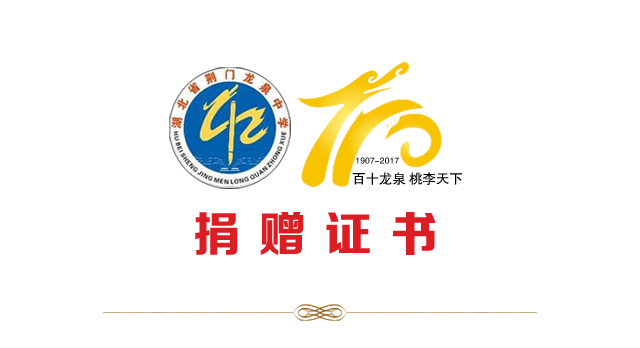
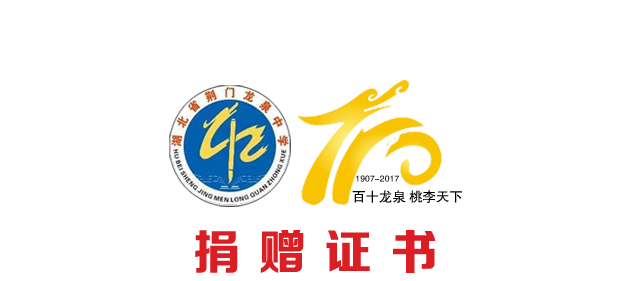
Add tradeNo in certificate.

Changed region(s): [[0.25, 0.1708, 0.7188, 0.7402], [0.1562, 0.7972, 0.8438, 0.968]]

diff --git a/src/main/webapp/mail/certificate.html b/src/main/webapp/mail/certificate.html
@@ -17,17 +17,22 @@
             margin: 0 auto;
             background-image: url('#{httpProtocol}://#{domain}/static/images/certificate-bg.jpg');">
     <img id="top-img" src="#{httpProtocol}://#{domain}/static/images/certificate-top.png" style="width: 100%;">
+    <p style="text-align: center;">证书编号：#{tradeNo}</p>
+    <img src="#{httpProtocol}://#{domain}/static/images/certificate-mid.png" style="width: 100%;">
     <div id="certificate-content" style="margin: 0 60px;">
         <p>尊敬的#{name}#{sex}</p>
         <p>&nbsp;&nbsp;&nbsp;&nbsp;&nbsp;&nbsp;&nbsp;&nbsp;承蒙您捐赠#{money}元人民币，用于资助龙泉中学教育事业的发展。隆情厚谊，至为感谢。</p>
         <p>&nbsp;&nbsp;&nbsp;&nbsp;&nbsp;&nbsp;&nbsp;&nbsp;仅奉此证，以示纪念。</p>
-        <p id="certificate-time" style="
+        <div id="certificate-time" style="
             position: absolute;
             bottom: 100px;
-            right: 65px;">二零一七年十月十日</p>
+            right: 65px;">
+            <span style="display: block;text-align: center;">荆门市龙泉中学</span>
+            <span>二零一七年十月十日</span>
+        </div>
         <img id="certificate-stamp" src="#{httpProtocol}://#{domain}/static/images/certificate-stamp.png" style="
-            width: 150px;
-            height: 150px;
+            width: 120px;
+            height: 120px;
             position: absolute;
             bottom: 70px;
             right: 60px;

diff --git a/src/main/webapp/donate/certificate.html b/src/main/webapp/donate/certificate.html
@@ -36,8 +36,8 @@
         }
 
         #certificate-stamp {
-            width: 150px;
-            height: 150px;
+            width: 120px;
+            height: 120px;
             position: absolute;
             bottom: 70px;
             right: 60px;
@@ -63,11 +63,16 @@
 <body>
 <div id="certificate">
     <img id="top-img" src="/static/images/certificate-top.png">
+    <p style="text-align: center;">证书编号：@{tradeNo}</p>
+    <img src="/static/images/certificate-mid.png" style="width: 100%;">
     <div id="certificate-content">
         <p>尊敬的@{name}@{sex}</p>
         <p>&nbsp;&nbsp;&nbsp;&nbsp;&nbsp;&nbsp;&nbsp;&nbsp;承蒙您捐赠@{money}元人民币，用于资助龙泉中学教育事业的发展。隆情厚谊，至为感谢。</p>
         <p>&nbsp;&nbsp;&nbsp;&nbsp;&nbsp;&nbsp;&nbsp;&nbsp;仅奉此证，以示纪念。</p>
-        <p id="certificate-time">二零一七年十月十日</p>
+        <div id="certificate-time">
+            <span style="display: block;text-align: center;">荆门市龙泉中学</span>
+            <span>二零一七年十月十日</span>
+        </div>
         <img id="certificate-stamp" src="/static/images/certificate-stamp.png">
     </div>
     <p id="certificate-bottom">凭此证书即可领取纪念品一份</p>

diff --git a/src/main/webapp/donate/donate.html b/src/main/webapp/donate/donate.html
@@ -12,6 +12,10 @@
         #main-container .top-img {
             margin-top: 20px;
         }
+
+        .weui-btn-area a {
+            width: 50%;
+        }
     </style>
 </head>
 <body>
@@ -19,7 +23,7 @@
     <img class="bg-img" src="/static/images/donate-bg.jpg">
     <img class="top-img" src="/static/images/donate-top.png">
     <div class="weui-btn-area">
-        <a href="register.html" class="weui-btn weui-btn_warn">提交信息</a>
+        <a href="register.html" class="weui-btn weui-btn_warn">校友登记</a>
     </div>
     <div id="foot">
         <script>$("#foot").load("foot.html");</script>

diff --git a/src/main/webapp/admin/donations.html b/src/main/webapp/admin/donations.html
@@ -37,6 +37,7 @@
                 <th>入校时间</th>
                 <th>邮箱</th>
                 <th>金额</th>
+                <th>证书编号</th>
             </tr>
             </thead>
             <tbody>
@@ -47,6 +48,7 @@
                 <td>${year}$</td>
                 <td>${email}$</td>
                 <td>${money}$元</td>
+                <td>${tradeNo}$</td>
             </tr>
             </tbody>
         </table>

diff --git a/src/main/webapp/donate/money.html b/src/main/webapp/donate/money.html
@@ -16,6 +16,11 @@
     <style>
         #pay-buttons {
             margin: 0 auto;
+            height: 100px;
+            width: 100%;
+            max-width: 500px;
+            position: absolute;
+            bottom: 230px;
         }
 
         #pay-buttons div {
@@ -52,6 +57,9 @@
             font-size: 18px;
         }
 
+        #main-container .top-img {
+            position: absolute;
+        }
     </style>
 </head>
 <body>

diff --git a/src/main/webapp/static/js/admin/donations.js b/src/main/webapp/static/js/admin/donations.js
@@ -15,7 +15,8 @@ $(document).ready(function () {
                     sex: donation.sex ? "先生" : "女士",
                     year: donation.year,
                     email: donation.email,
-                    money: donation.money
+                    money: donation.money,
+                    tradeNo: donation.tradeNo
                 });
             }
 

diff --git a/src/main/webapp/static/js/donate/certificate.js b/src/main/webapp/static/js/donate/certificate.js
@@ -8,7 +8,8 @@ $(document).ready(function () {
             return;
         }
 
-        $("#certificate-content").fillText({
+        $("#certificate").fillText({
+            tradeNo: donation.tradeNo,
             money: donation.money / 100,
             name: donation.name,
             sex: donation.sex ? "先生" : "女士"

diff --git a/src/main/webapp/donate/register.html b/src/main/webapp/donate/register.html
@@ -29,6 +29,11 @@
             opacity: 0.7;
         }
 
+        #donate-register {
+            width: 50%;
+            margin: 0 auto;
+        }
+
         #donate-sex-selector,
         #donate-year-selector {
             cursor: pointer;

diff --git a/src/main/java/com/xwkj/donate/bean/DonationBean.java b/src/main/java/com/xwkj/donate/bean/DonationBean.java
@@ -110,6 +110,14 @@ public class DonationBean {
         this.payAt = payAt;
     }
 
+    public String getTransactionId() {
+        return transactionId;
+    }
+
+    public void setTransactionId(String transactionId) {
+        this.transactionId = transactionId;
+    }
+
     public String getWid() {
         return wid;
     }
@@ -129,9 +137,9 @@ public class DonationBean {
         this.payed = donation.getPayed();
         this.payAt = donation.getPayAt() == null ? null : new Date(donation.getPayAt());
         this.wid = donation.getWechater() == null ? null : donation.getWechater().getWid();
+        this.tradeNo = donation.getTradeNo() == null ? null : donation.getTradeNo();
         if (!safe) {
             this.nonce = donation.getNonce() == null ? null : donation.getNonce();
-            this.tradeNo = donation.getTradeNo() == null ? null : donation.getTradeNo();
             this.transactionId = donation.getTransactionId() == null ? null : donation.getTransactionId();
         }
     }

diff --git a/src/main/java/com/xwkj/donate/service/impl/DonationManagerImpl.java b/src/main/java/com/xwkj/donate/service/impl/DonationManagerImpl.java
@@ -123,6 +123,7 @@ public class DonationManagerImpl extends ManagerTemplate implements DonationMana
         MengularDocument document = new MengularDocument(config.rootPath, 0, "mail/certificate.html", null);
         document.setValue("httpProtocol", config.global.httpProtocol);
         document.setValue("domain", config.global.domain);
+        document.setValue("tradeNo", donation.getTradeNo());
         document.setValue("name", donation.getName());
         document.setValue("sex", donation.getSex() ? config.text.male : config.text.female);
         document.setValue("money", String.valueOf(donation.getMoney() / 100));

diff --git a/src/main/java/com/xwkj/donate/component/WechatComponent.java b/src/main/java/com/xwkj/donate/component/WechatComponent.java
@@ -109,6 +109,10 @@ public class WechatComponent {
             return null;
         }
         JSONObject userInfo = getUserInfo(openid);
+        if (userInfo.get("subscribe") == null) {
+            Debug.error("Cannot get user info. Check IP address white list.");
+            return null;
+        }
         // If user has not subscribed official account, try to get simple user info by SNS user info API.
         if (userInfo.getInt("subscribe") == 0) {
             String SNSAccessToken = result.getString("access_token");
